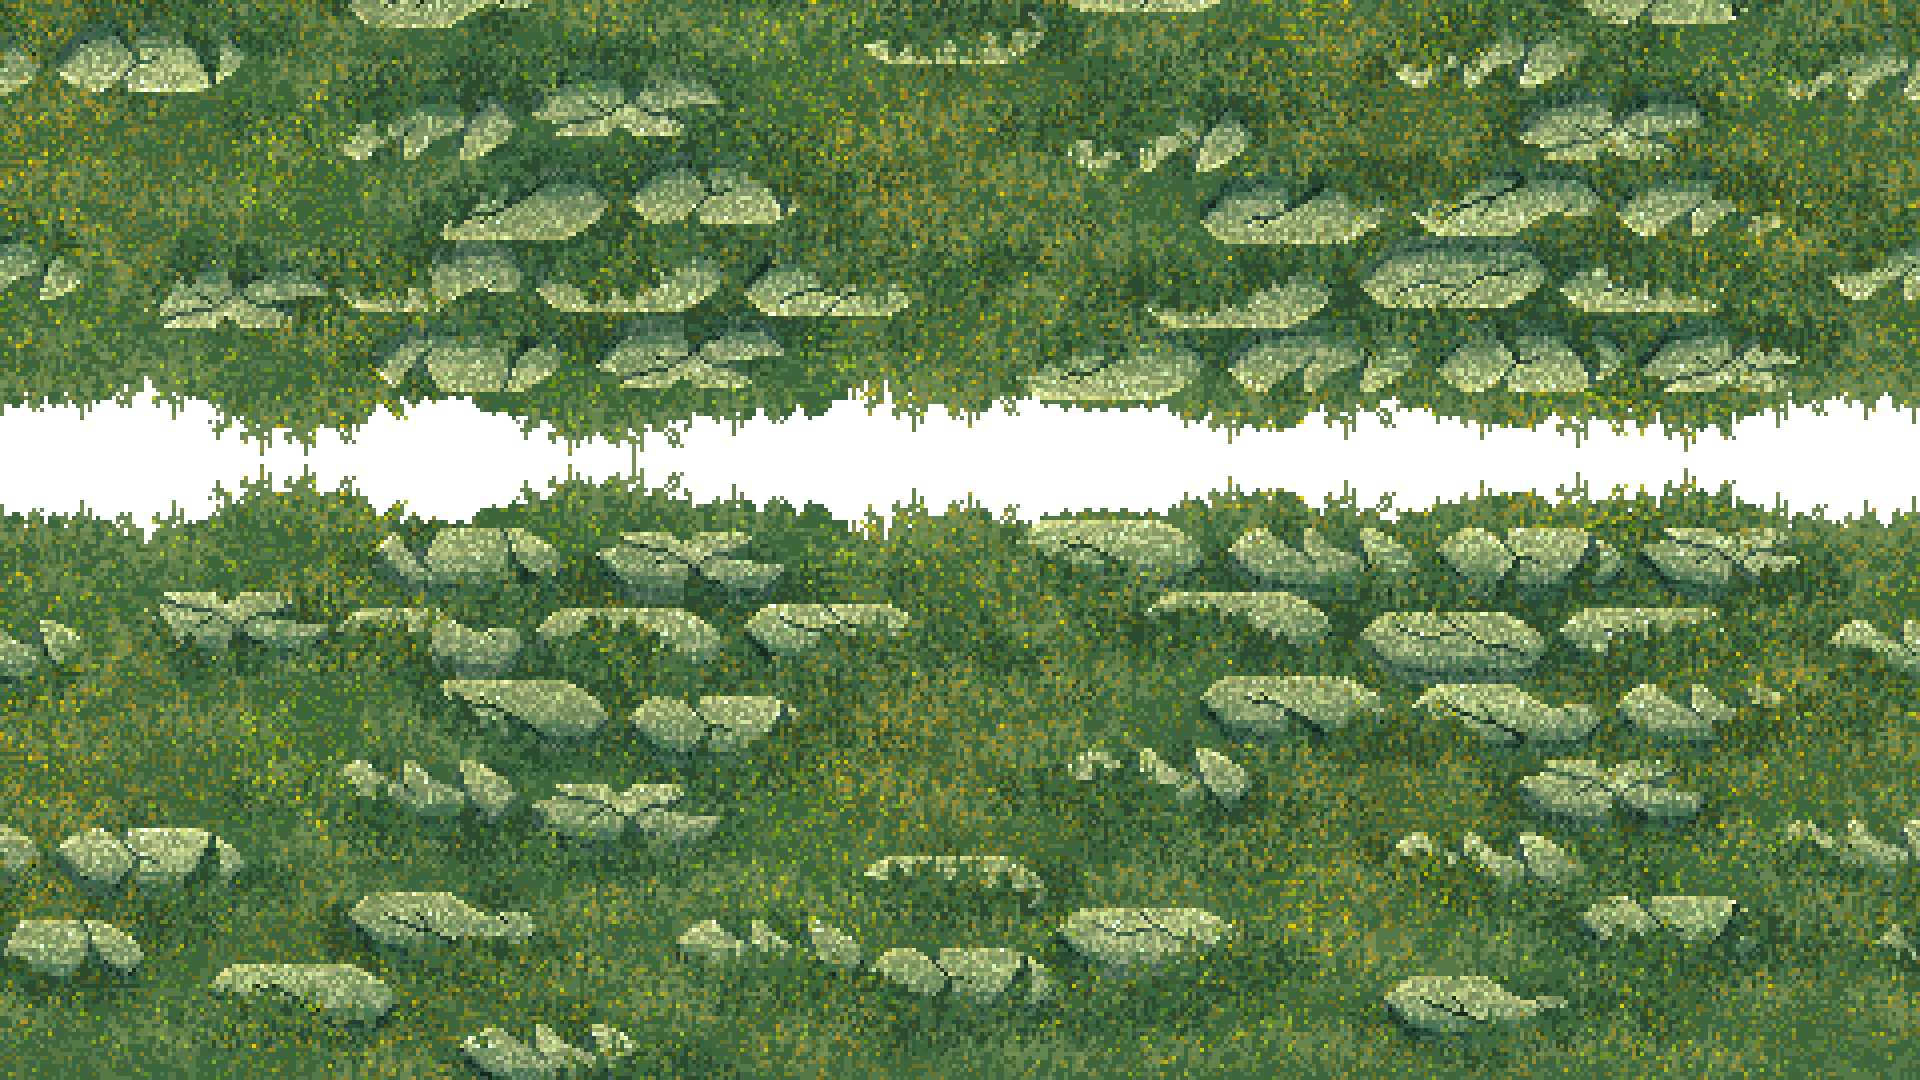
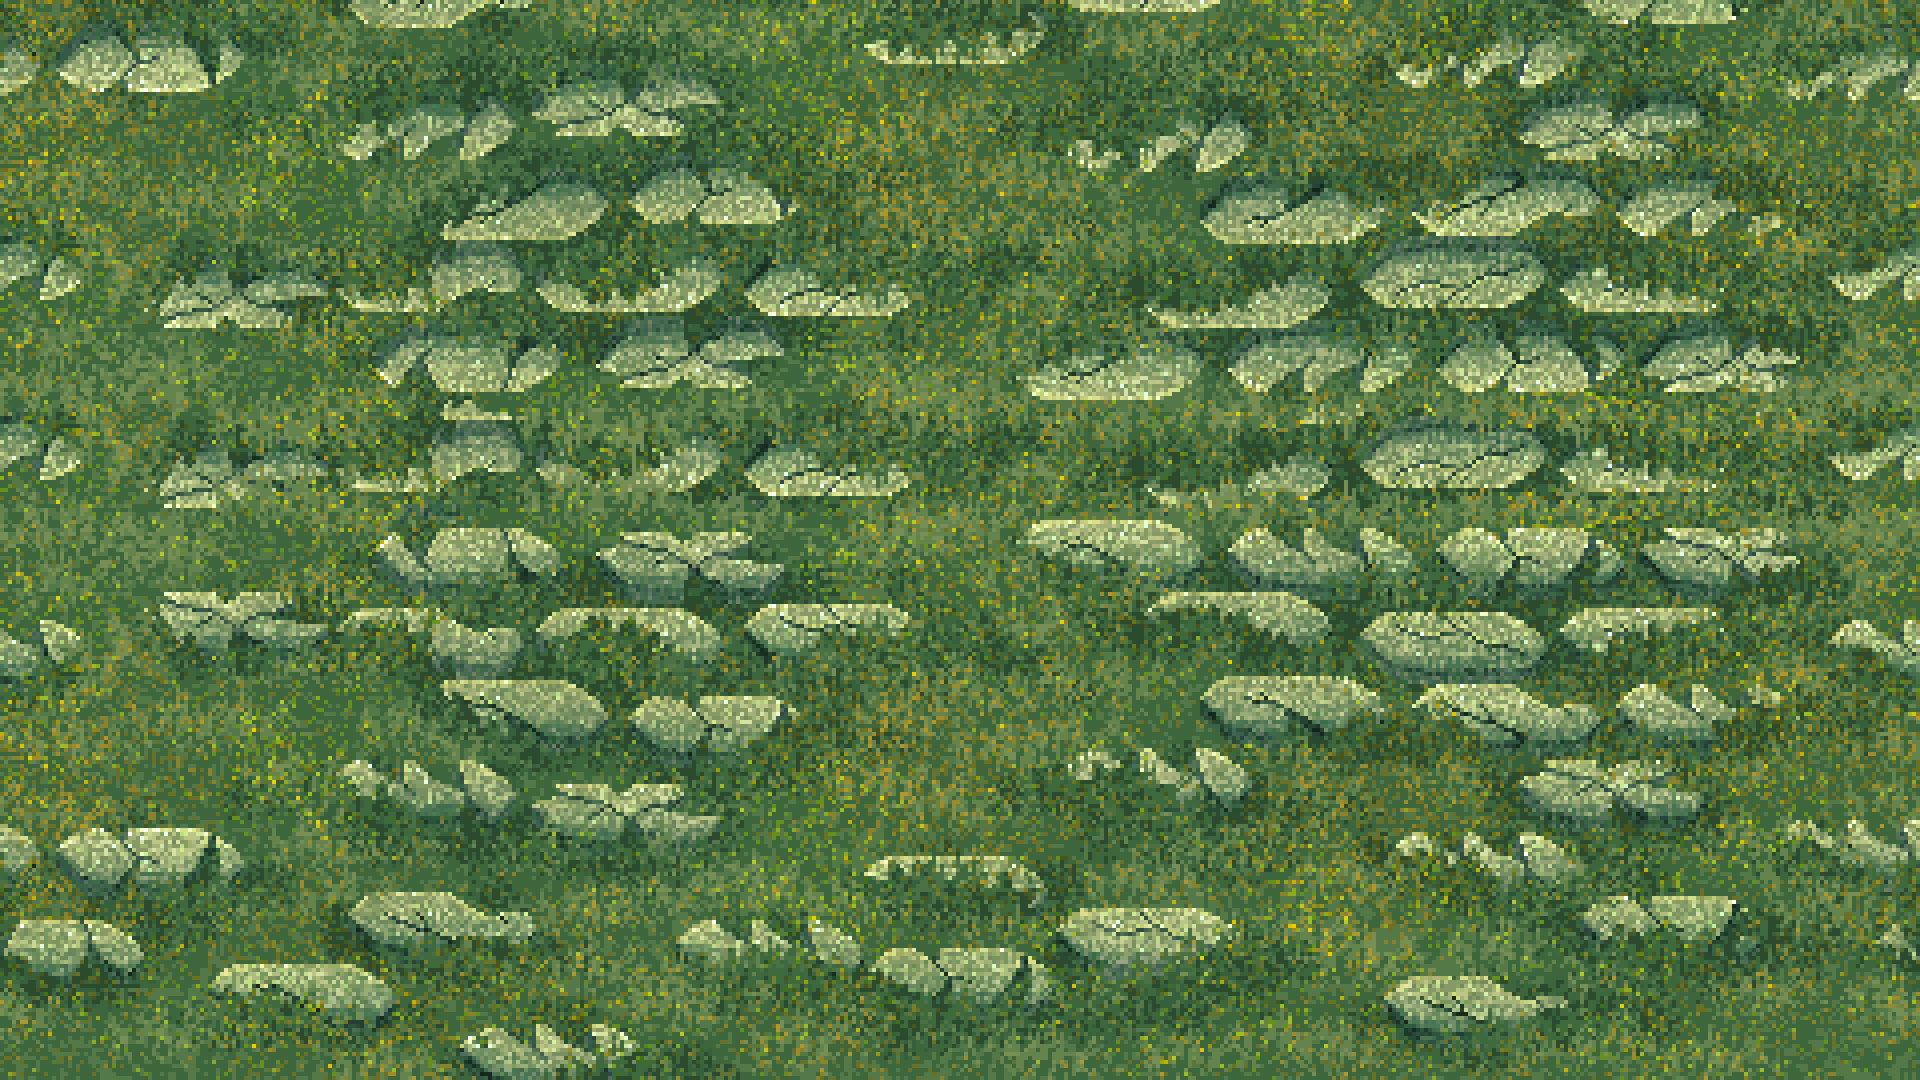
Cover battlefield with continuous grass terrain, restore dynamic parallax scrolling, and prevent canvas darkening

Changed region(s): [[0.0, 0.3361, 1.0, 0.4889]]

diff --git a/src/renderer.ts b/src/renderer.ts
@@ -105,70 +105,64 @@ export function debouncedResize() {
 }
 
 export function drawBackground(ctx: CanvasRenderingContext2D) {
-  // 1. Permanent Solid Base & Daylight Sky Gradient (Guarantees zero black void / transparency gap)
-  ctx.fillStyle = '#38bdf8';
+  const isKamisori = (globals.flowState === 'awakened') || (globals.flowState === 'storm_god') || (globals.zenFieldActiveTimer > 0);
+  
+  // 1. Lush Green Grass Base (Guarantees zero black void, zero transparency gaps, zero screen darkening)
+  ctx.fillStyle = isKamisori ? '#e5e5e5' : '#527c2f';
   ctx.fillRect(0, 0, globals.width, globals.height);
-
-  const skyGrad = ctx.createLinearGradient(0, 0, 0, globals.height * 0.72);
-  skyGrad.addColorStop(0, '#38bdf8'); // Clear brilliant azure sky
-  skyGrad.addColorStop(0.55, '#7dd3fc'); // Gentle sunlit sky blue
-  skyGrad.addColorStop(1, '#bae6fd'); // Warm horizon haze
-  ctx.fillStyle = skyGrad;
-  ctx.fillRect(0, 0, globals.width, globals.height);
-
-  // 2. Sunlit Day Sun with Soft Halo
-  const sunX = (globals.width * 0.82) | 0;
-  const sunY = (globals.height * 0.18) | 0;
-  const sunRadius = 40;
-  const sunGlow = ctx.createRadialGradient(sunX, sunY, sunRadius * 0.4, sunX, sunY, sunRadius * 2.6);
-  sunGlow.addColorStop(0, 'rgba(255, 255, 240, 0.95)');
-  sunGlow.addColorStop(0.35, 'rgba(254, 240, 138, 0.4)');
-  sunGlow.addColorStop(1, 'rgba(254, 240, 138, 0)');
-  ctx.fillStyle = sunGlow;
-  ctx.beginPath();
-  ctx.arc(sunX, sunY, sunRadius * 2.6, 0, Math.PI * 2);
-  ctx.fill();
-
-  ctx.fillStyle = '#fffbeb';
-  ctx.beginPath();
-  ctx.arc(sunX, sunY, sunRadius, 0, Math.PI * 2);
-  ctx.fill();
-
-  // 3. Guaranteed Lush Green Ground Fallback
-  const groundTop = (globals.height * 0.56) | 0;
-  const groundGrad = ctx.createLinearGradient(0, groundTop, 0, globals.height);
-  groundGrad.addColorStop(0, '#5a8f29');
-  groundGrad.addColorStop(1, '#365314');
-  ctx.fillStyle = groundGrad;
-  ctx.fillRect(0, groundTop, globals.width, globals.height - groundTop);
 
   ctx.imageSmoothingEnabled = false;
 
-  // 4. Parallax Fantasy Background Layers (Original Artwork: Ruins, Torii, Cherry Trees, Statues & Grass)
+  const isTouch = typeof window !== 'undefined' && ('ontouchstart' in window || navigator.maxTouchPoints > 0);
+
+  // 2. Parallax Fantasy Background Layers
   bgLayers.forEach(layer => {
-    // Skip dark night sky layer in permanent bright day mode
     if (layer.name === 'sky') {
+      return;
+    }
+    const isGroundLayer = layer.name === 'stones&grass' || layer.name === 'stones_grass';
+    const isTreesLayer = layer.name === 'hills&trees' || layer.name === 'hills_trees';
+
+    if (globals.graphicsSettings === 'low' && !isGroundLayer) {
+      return;
+    }
+    if (isTouch && !isTreesLayer && !isGroundLayer) {
       return;
     }
 
     const img = bgImages[layer.name] || ((layer as any).fallbackName && bgImages[(layer as any).fallbackName]);
     if (img && img.complete && img.naturalWidth > 0) {
       ctx.save();
-      // Ensure all 1080p parallax layers align seamlessly across canvas height
-      const scale = (globals.height * 1.05) / img.naturalHeight;
+      if (isKamisori) {
+        ctx.globalAlpha = 0.25;
+      }
+      
+      const bufferFactor = 1.15;
+      const scale = (globals.height * bufferFactor) / img.naturalHeight;
       const imgW = img.naturalWidth * scale;
       const imgH = img.naturalHeight * scale;
       
       const offsetX = -(globals.camera.x * layer.speed * globals.gameZoom) % imgW;
       let startX = offsetX > 0 ? offsetX - imgW : offsetX;
       
-      // Subtle vertical parallax clamped to prevent any gaps
-      const maxNegativeY = -(imgH - globals.height);
-      const offsetY = Math.min(0, Math.max(maxNegativeY, (globals.height - imgH) * 0.5 - (globals.camera.y - 350) * 0.04 * layer.speed));
+      const midY = (globals.height - imgH) / 2;
+      const speedY = isGroundLayer ? layer.speed : 0.3;
+      const offsetY = midY - (globals.camera.y * speedY * globals.gameZoom);
       
-      // Tile horizontally only; each layer covers full vertical viewport
-      for(let x = startX; x < globals.width + imgW; x += imgW) {
-        ctx.drawImage(img, x, offsetY, imgW, imgH);
+      if (isGroundLayer) {
+        // Tiled across entire arena in both X and Y: covers the whole field with grass
+        const offsetYMod = offsetY % imgH;
+        let startY = offsetYMod > 0 ? offsetYMod - imgH : offsetYMod;
+        for (let x = startX; x < globals.width + imgW; x += imgW) {
+          for (let y = startY; y < globals.height + imgH; y += imgH) {
+            ctx.drawImage(img, x, y, imgW, imgH);
+          }
+        }
+      } else {
+        // Decorative layers: tile horizontally only, single vertical position
+        for (let x = startX; x < globals.width + imgW; x += imgW) {
+          ctx.drawImage(img, x, offsetY, imgW, imgH);
+        }
       }
       ctx.restore();
     }
@@ -181,7 +175,7 @@ export function resetCanvasVisuals() {
   if (!canvas || !ctx) return;
   ctx.save();
   ctx.setTransform(currentDpr, 0, 0, currentDpr, 0, 0);
-  ctx.fillStyle = '#38bdf8';
+  ctx.fillStyle = '#527c2f';
   ctx.fillRect(0, 0, globals.width, globals.height);
   ctx.restore();
 }
